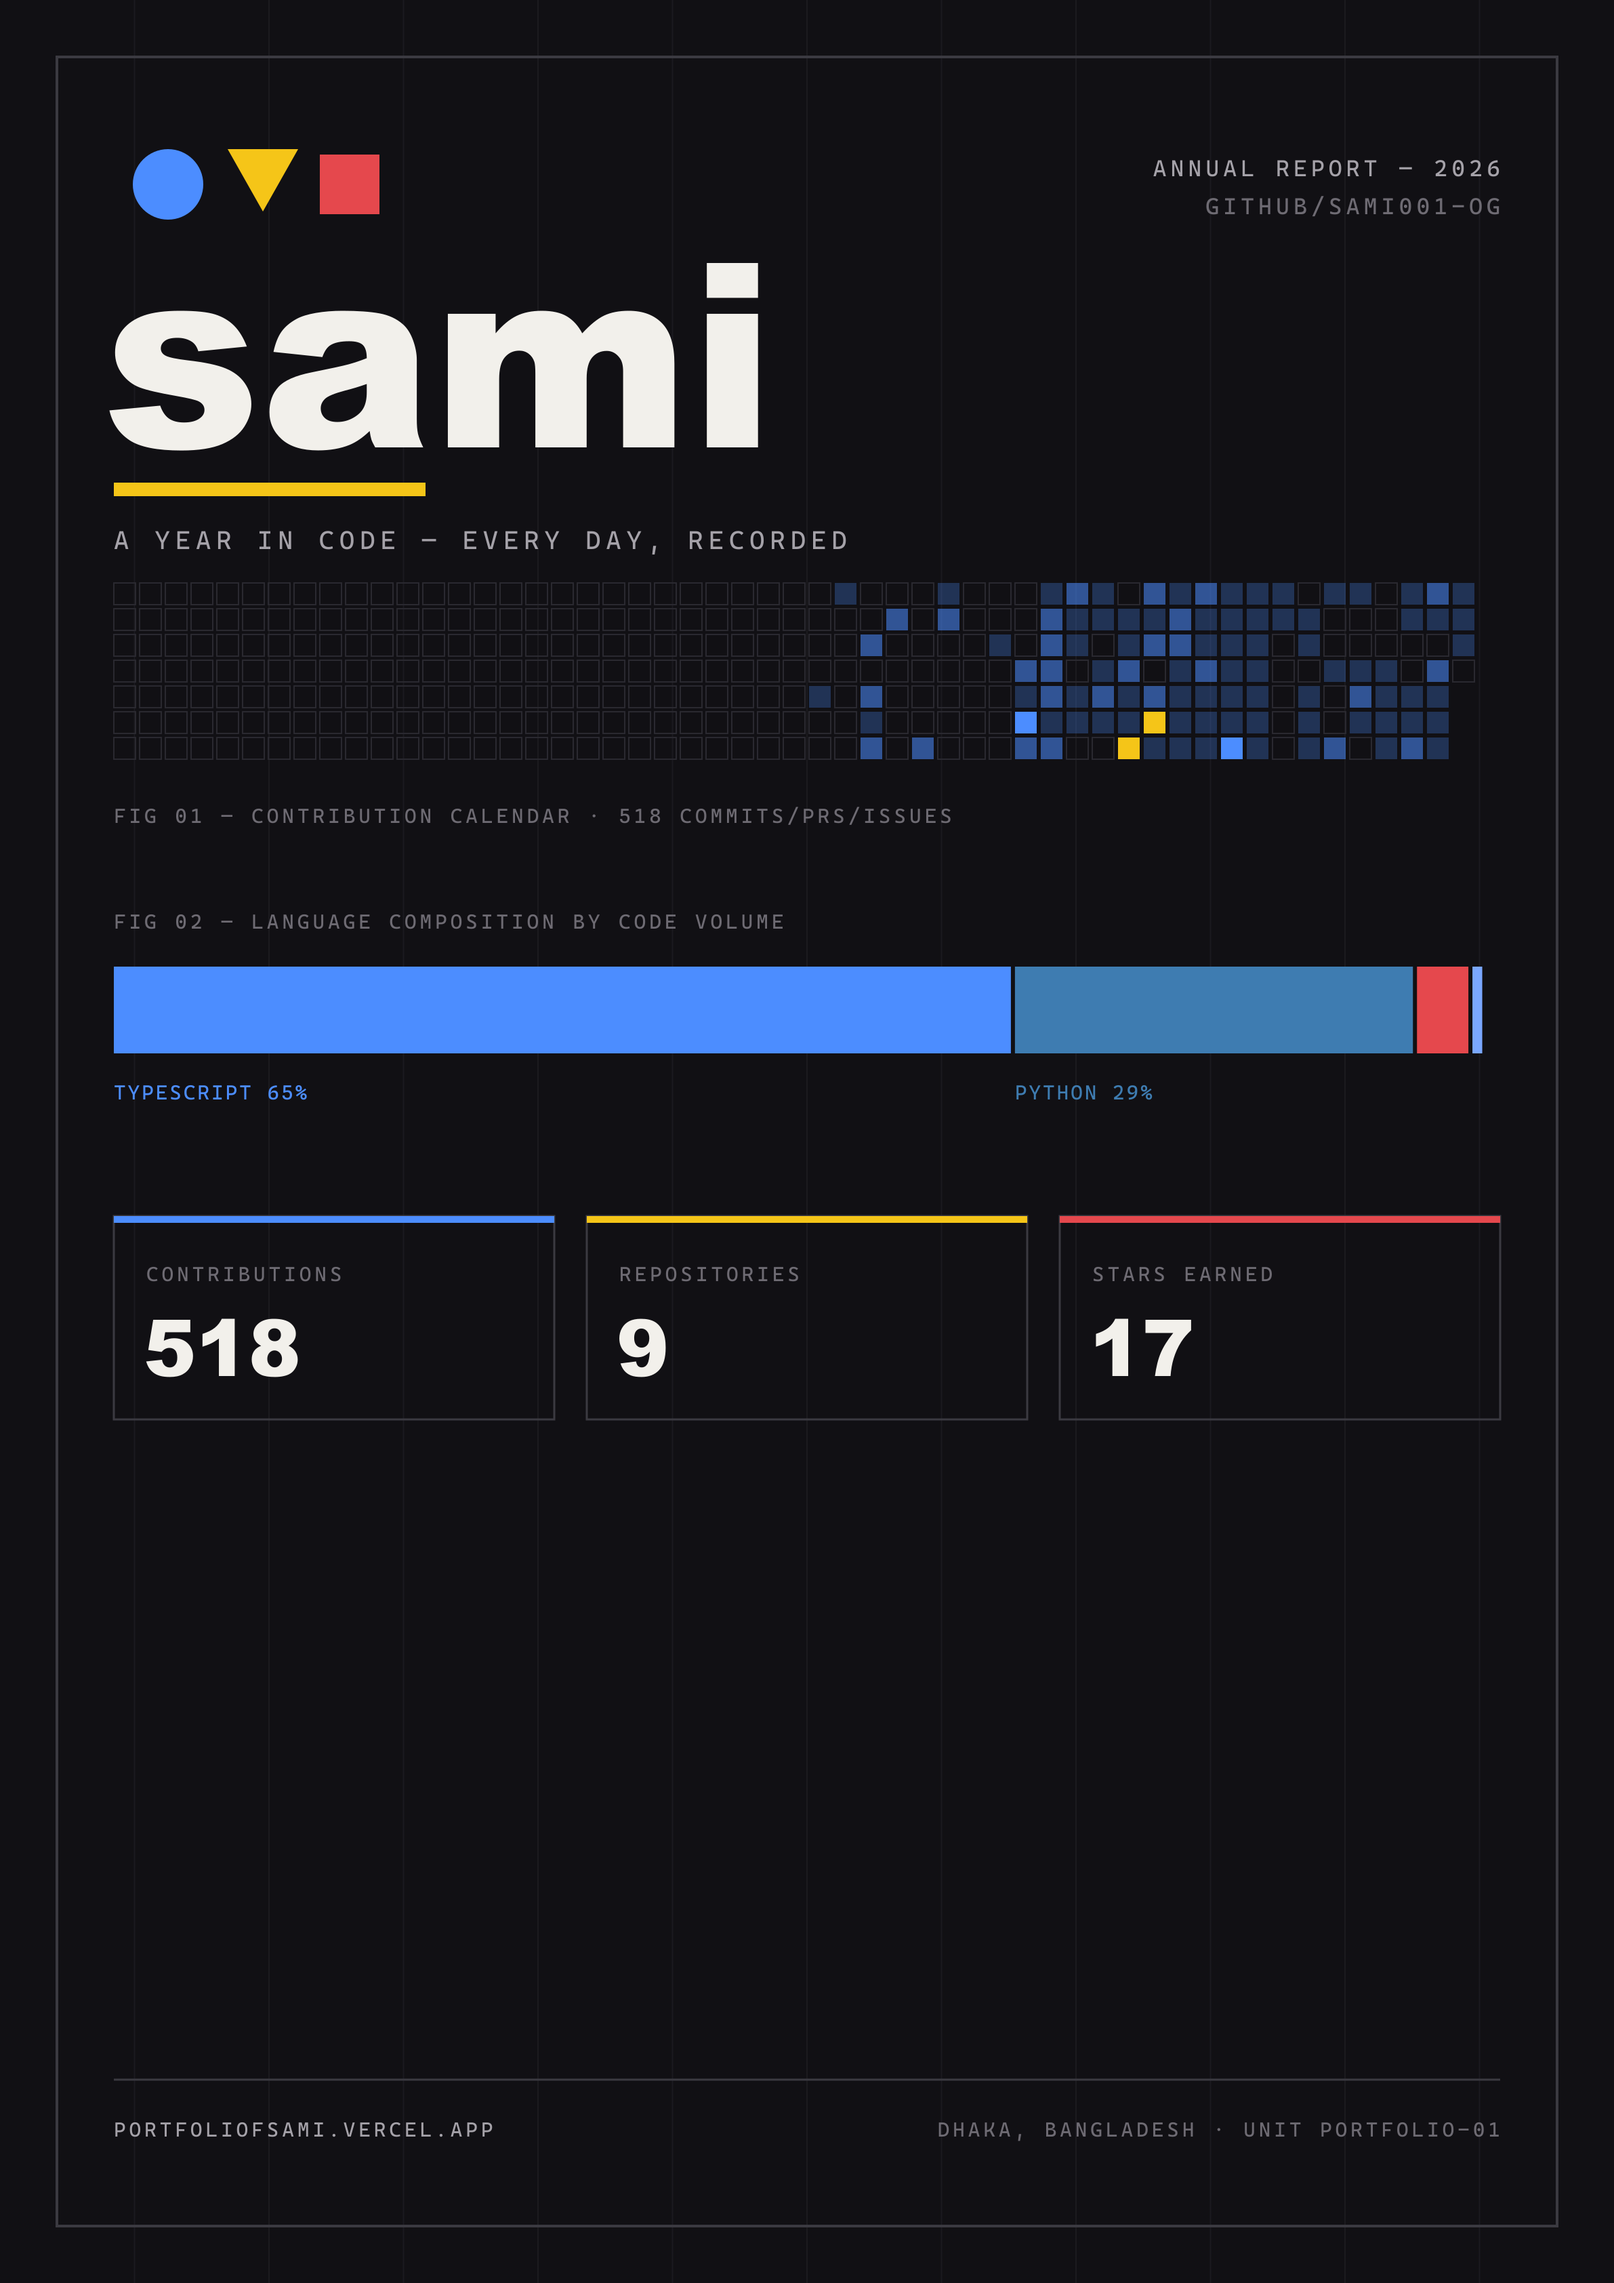
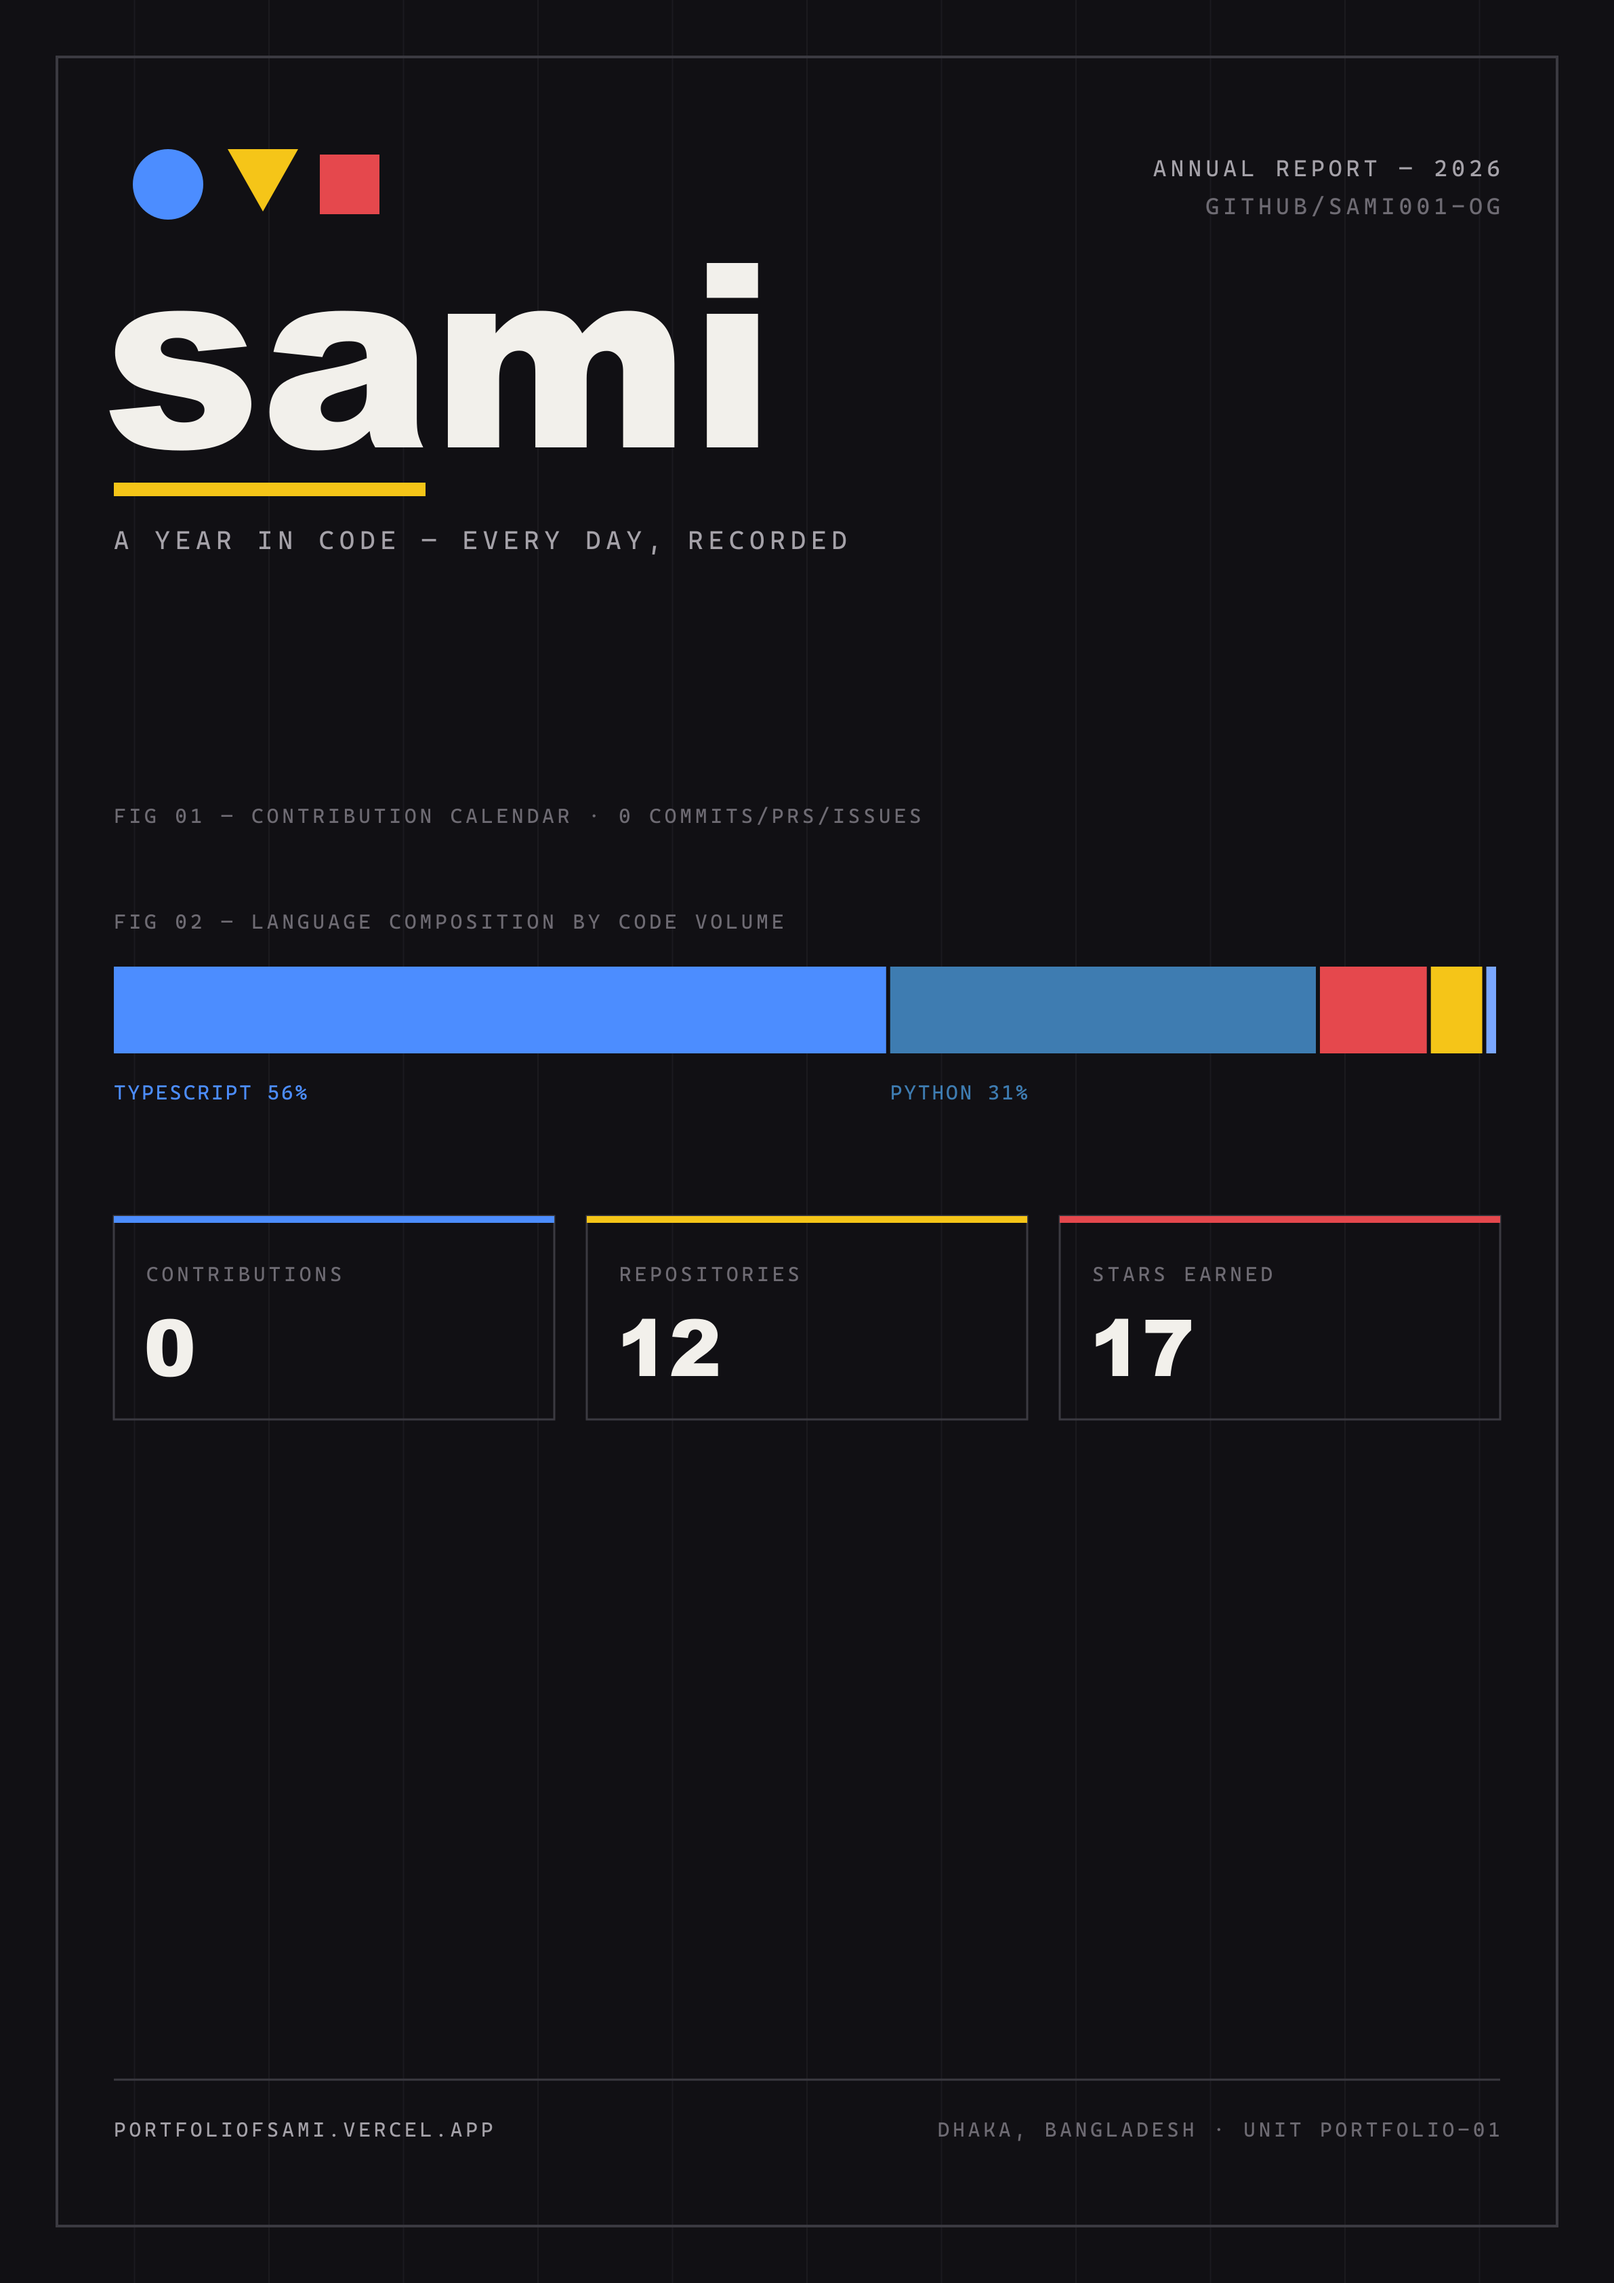
Clean hero 3D: remove SVG overlap, drop grid plane lines

diff --git a/src/components/dashboard/Hero3D.jsx b/src/components/dashboard/Hero3D.jsx
@@ -3,15 +3,17 @@ import * as THREE from 'three'
 
 /**
  * Hero3D — Interactive Bauhaus 3D, speed-first.
- * Same grammar as KineticComposition SVG: blue sphere (data),
- * red box (work), yellow tetra (action) + construction grid + diagonal.
+ * Clean artifact: blue sphere (data), red box (work), yellow tetra (action)
+ * + subtle accent ring. No grid plane, no construction lines.
  * - Vanilla three only (no fiber/drei) to keep bundle minimal.
  * - Transparent renderer so Dessau/paper/blueprint CSS bg shows through.
  * - DPR capped 1-1.75, pauses offscreen / tab-hidden, disposes on unmount.
  * - Reduced-motion or WebGL failure: renders single static frame, no loop.
  */
-export default function Hero3D({ palette = [] }) {
+export default function Hero3D({ palette = [], onReady }) {
   const mountRef = useRef(null)
+  const readyRef = useRef(onReady)
+  readyRef.current = onReady
 
   useEffect(() => {
     const mount = mountRef.current
@@ -82,40 +84,6 @@ export default function Hero3D({ palette = [] }) {
     )
     ring.position.set(1.7, -1.25, 0.5)
     group.add(ring)
-
-    // Construction grid — flat backdrop, theme-aware via data-theme.
-    const gridColors = () => {
-      const theme = document.documentElement.getAttribute('data-theme')
-      if (theme === 'paper') return { grid: 0xd2cdbf, diag: 0x928b7a }
-      if (theme === 'blueprint') return { grid: 0x385c82, diag: 0x608ab4 }
-      return { grid: 0x2a2930, diag: 0x3b3a41 }
-    }
-    let { grid: gridColor, diag: diagColor } = gridColors()
-    const grid = new THREE.GridHelper(8, 8, gridColor, gridColor)
-    grid.position.set(0, 0, -1.6)
-    grid.rotation.x = 0
-    grid.material.transparent = true
-    grid.material.opacity = 0.55
-    scene.add(grid)
-
-    // Single diagonal — Kandinsky tension line.
-    const diagGeo = new THREE.BufferGeometry().setFromPoints([
-      new THREE.Vector3(-2.8, -2.4, -1.5),
-      new THREE.Vector3(2.8, 2.4, -1.5),
-    ])
-    const diag = new THREE.Line(
-      diagGeo,
-      new THREE.LineBasicMaterial({ color: diagColor, transparent: true, opacity: 0.9 })
-    )
-    scene.add(diag)
-
-    const syncTheme = () => {
-      const c = gridColors()
-      grid.material.color.setHex(c.grid)
-      diag.material.color.setHex(c.diag)
-    }
-    const themeObs = new MutationObserver(syncTheme)
-    themeObs.observe(document.documentElement, { attributes: true, attributeFilter: ['data-theme'] })
 
     const resize = () => {
       const w = mount.clientWidth || 340
@@ -195,11 +163,17 @@ export default function Hero3D({ palette = [] }) {
 
     if (reduceMotion) {
       renderFrame(0) // single static frame, no loop
+      readyRef.current?.()
     } else {
+      let firstFrame = true
       const loop = (t) => {
         raf = requestAnimationFrame(loop)
         if (!visible || !inView) return
         renderFrame(t)
+        if (firstFrame) {
+          firstFrame = false
+          readyRef.current?.()
+        }
       }
       raf = requestAnimationFrame(loop)
     }
@@ -207,13 +181,11 @@ export default function Hero3D({ palette = [] }) {
     return () => {
       cancelAnimationFrame(raf)
       io.disconnect()
-      themeObs.disconnect()
       window.removeEventListener('resize', resize)
       window.removeEventListener('pointermove', onMove)
       window.removeEventListener('pointerup', onUp)
       document.removeEventListener('visibilitychange', onVis)
       mount.removeEventListener('pointerdown', onDown)
-      diagGeo.dispose()
       scene.traverse((o) => {
         if (o.geometry) o.geometry.dispose?.()
         if (o.material) {

diff --git a/src/components/dashboard/Hero.jsx b/src/components/dashboard/Hero.jsx
@@ -22,6 +22,7 @@ export default function Hero({ profile, languages }) {
   const palette = useMemo(() => paletteFromLanguages(languages), [languages])
   const posterRef = useRef(null)
   const [load3D, setLoad3D] = useState(false)
+  const [ready3D, setReady3D] = useState(false)
 
   // Load 3D only when hero is visible + browser is idle. SSR/LCP stays SVG.
   useEffect(() => {
@@ -100,12 +101,12 @@ export default function Hero({ profile, languages }) {
           </div>
         </div>
 
-        {/* ── Right: Kinetic Composition poster ────────────────────────── */}
+        {/* ── Right: 3D artifact (SVG is SSR LCP + fallback only) ────── */}
         <div ref={posterRef} className="relative w-full max-w-[340px] mx-auto lg:mx-0 aspect-square">
-          <KineticComposition palette={palette} />
+          {!ready3D && <KineticComposition palette={palette} />}
           {load3D && (
             <Suspense fallback={null}>
-              <Hero3D palette={palette} />
+              <Hero3D palette={palette} onReady={() => setReady3D(true)} />
             </Suspense>
           )}
         </div>
